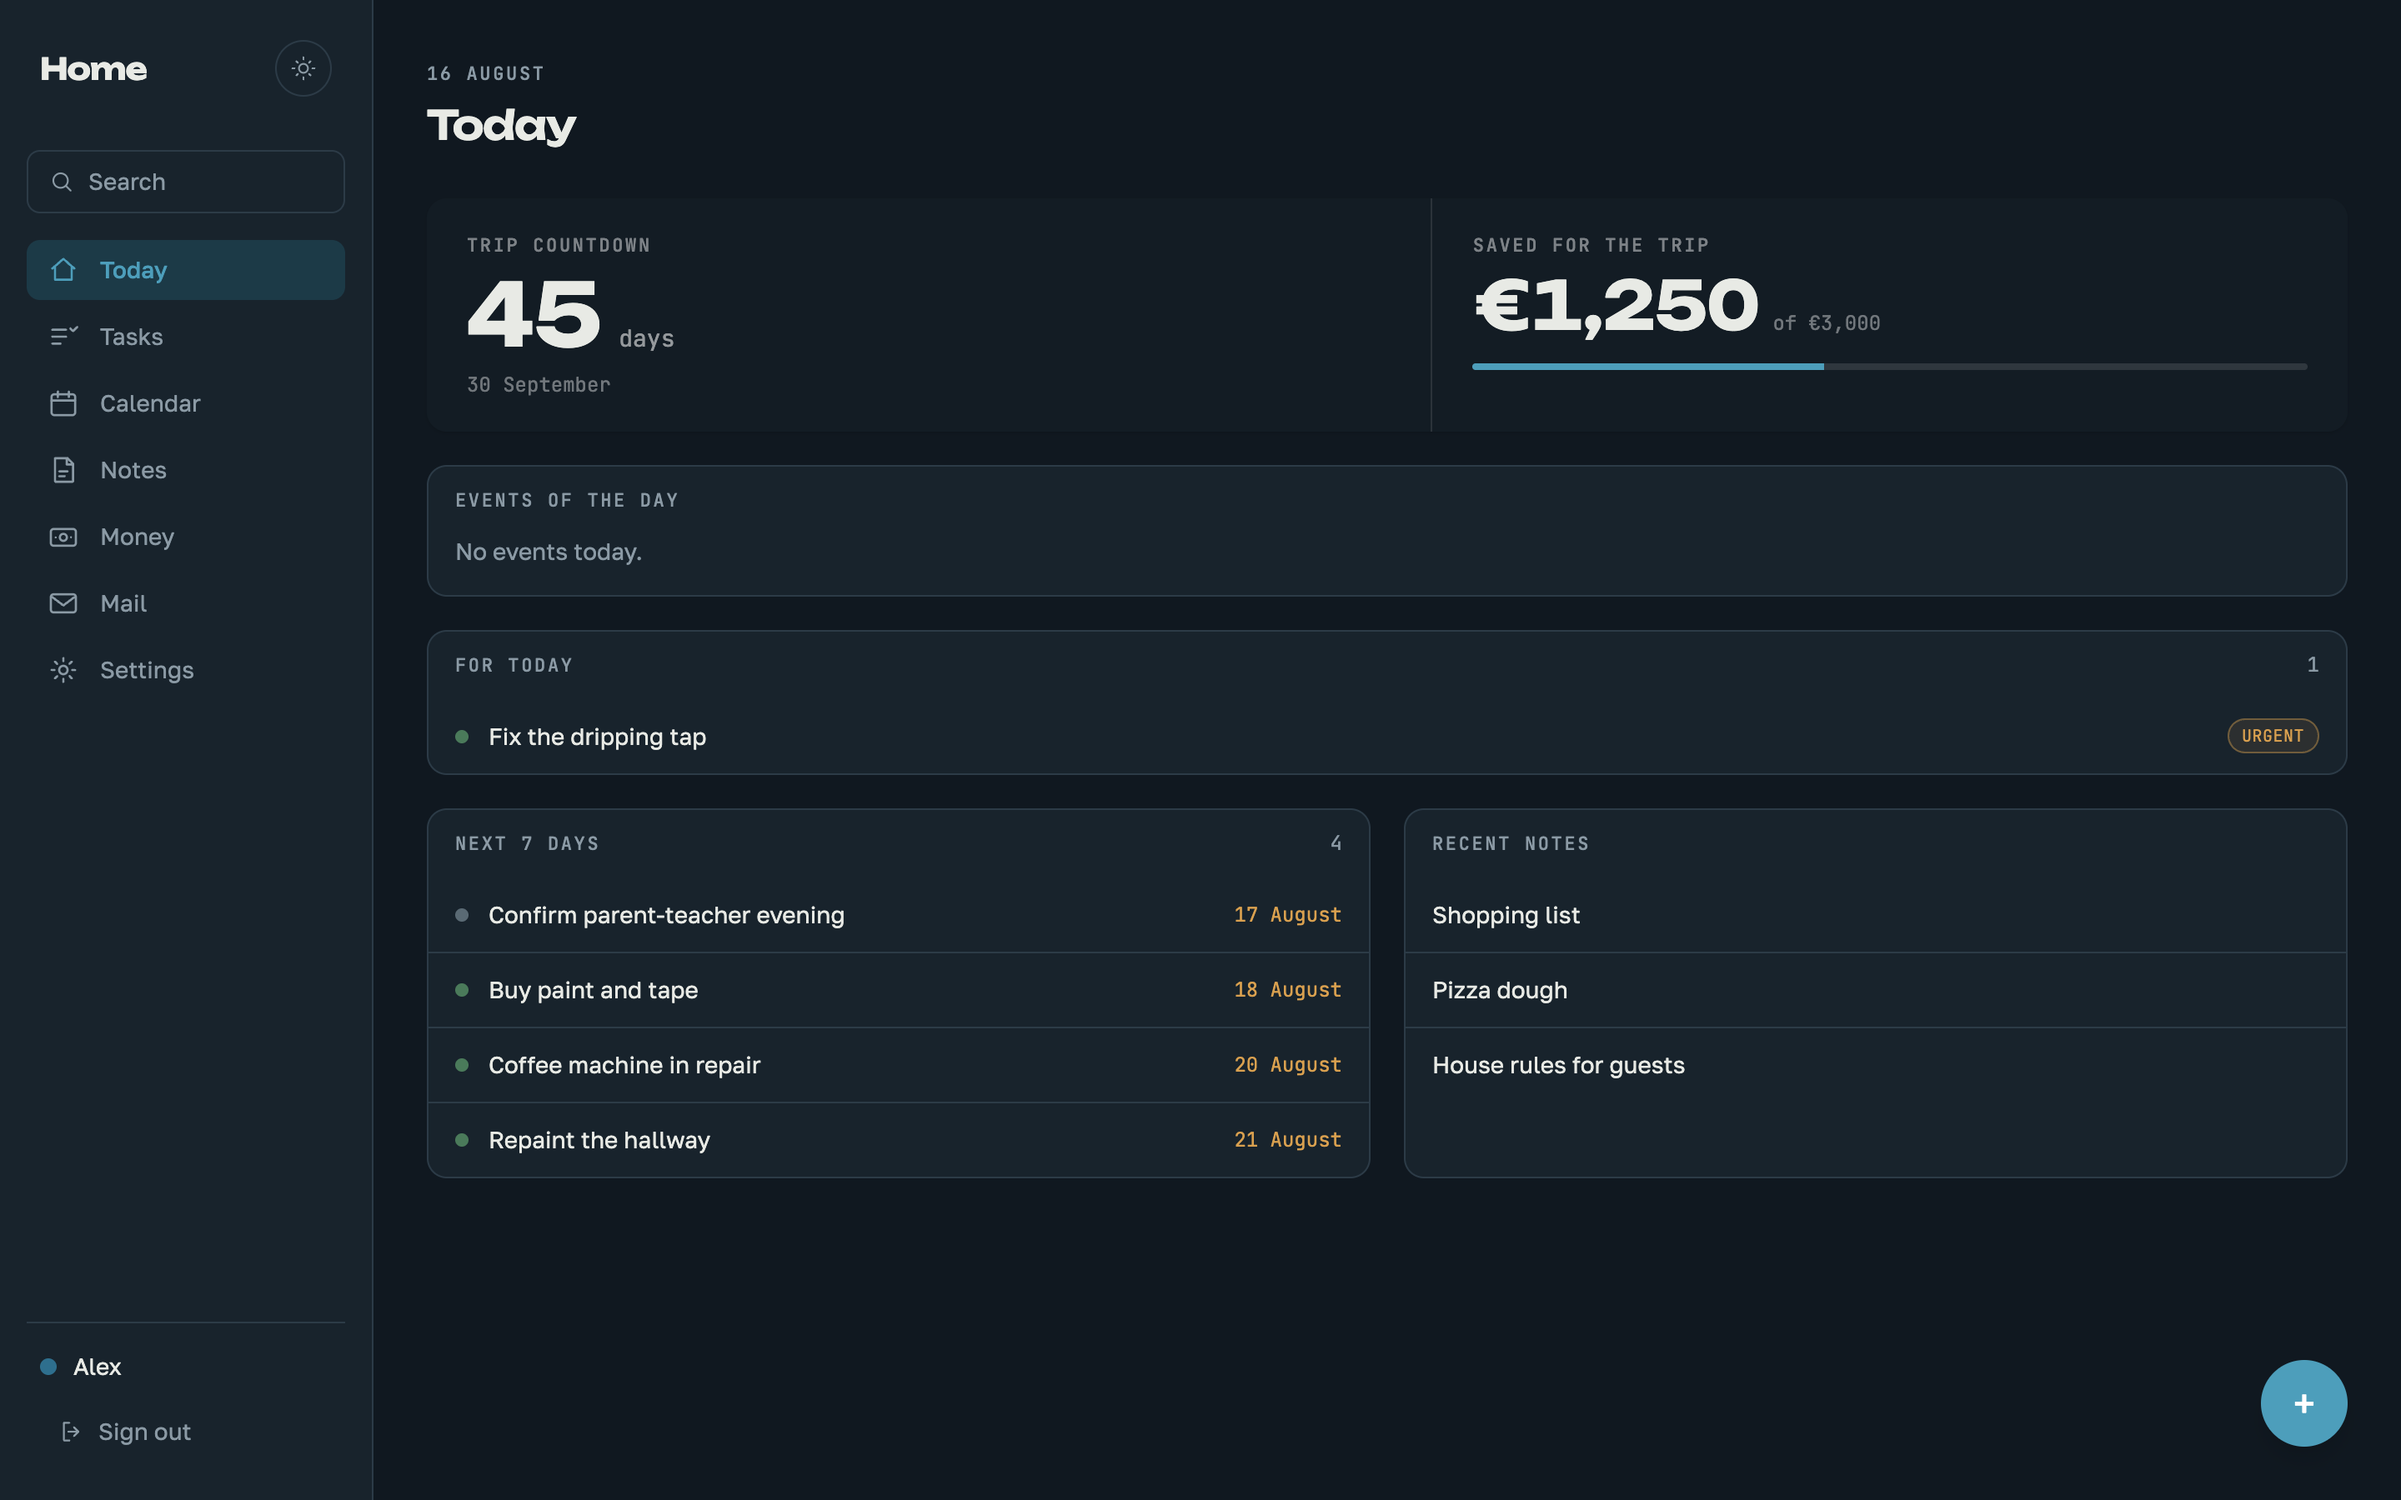
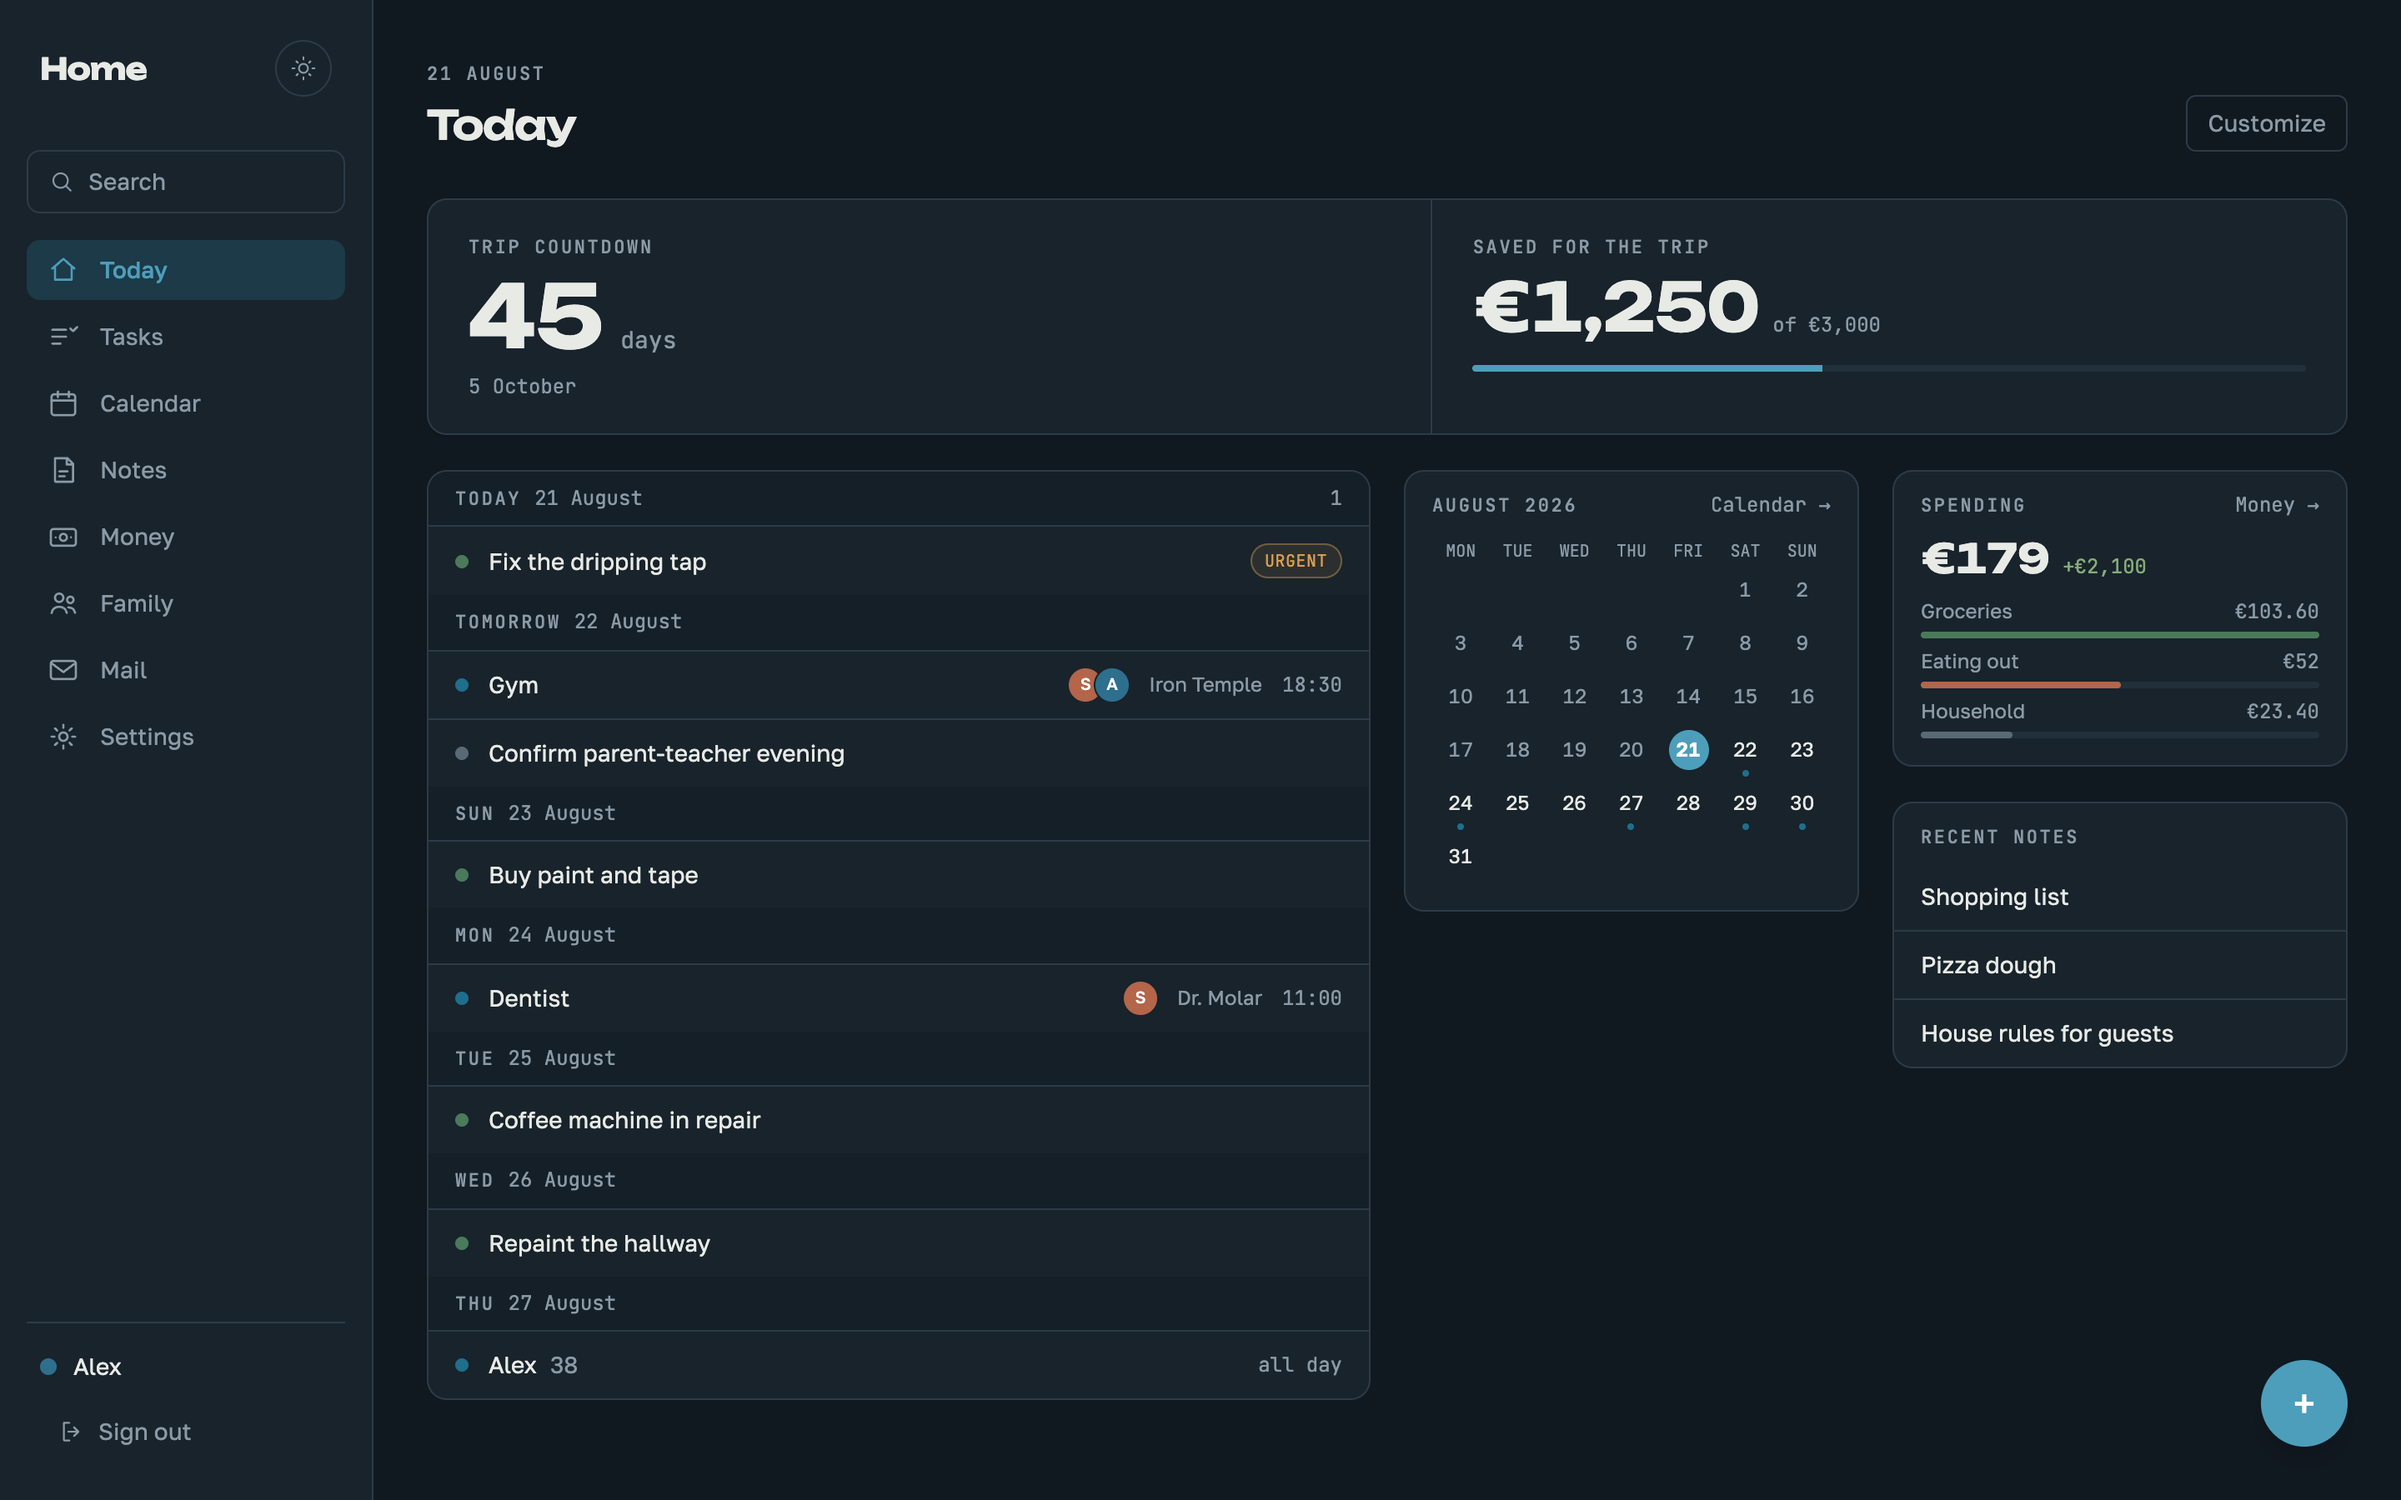
docs: reshoot the dashboard screenshots for the widget board
The README's lead image and the phone shot still showed the old fixed
panels (Events of the day / For today / Next 7 days), which no longer
exist. Both are retaken from a fresh demo sandbox on the deployed
image, plus a new one for customize mode — the strips with their drag
handle, width switch and hide button, which is the part prose explains
worst.

The Today board section grew the two desktop images and a note that
Reset exists; the README intro now says the home screen is arranged by
the household instead of calling it 'a dashboard'.

Also fixes an alphabetical slip from the redesign branch: 'Add widget'
sat before 'Add task' in the Russian dictionary. Order there is for
readers only — the dictionary is a lookup — but that is exactly why it
should stay sorted.

diff --git a/web/src/lib/i18n.ru.ts b/web/src/lib/i18n.ru.ts
@@ -108,8 +108,8 @@ export const ru: Record<string, string> = {
   'Add an event on {date}': 'Добавить событие на {date}',
   'Add color': 'Добавить цвет',
   'Add subtask': 'Добавить подзадачу',
-  'Add widget': 'Добавить виджет',
   'Add task': 'Добавить задачу',
+  'Add widget': 'Добавить виджет',
   'Administrator': 'Администратор',
   'Administrators only': 'Только администратор',
   'Agenda': 'Лента',

diff --git a/docs/features.md b/docs/features.md
@@ -217,16 +217,24 @@ currency with the three heaviest categories (subcategories roll up into
 their parent, same as the Money summary). A widget with nothing to say
 renders nothing.
 
-**Customize** turns the board editable: every widget gets a strip to
-drag it anywhere — the column you drop it in is where it stays, while
-vertically widgets fall up like gravity, so holes close themselves.
-The strip also switches the widget's width (a quarter, a half or the
-whole row) and hides it; hidden widgets come back through "Add widget".
-While dragging, a dashed box shows the exact landing spot.
+![The Today board: the week's agenda beside the month and the month's spending](screenshots/dashboard.png)
 
-The layout is a per-device setting, like the calendar view: the hallway
-kiosk wants a big month at a glance, the phone wants the agenda first,
-and a shared setting would make them fight.
+**Customize** turns the board editable: every widget grows a strip with
+a handle to drag it anywhere. The column you drop it in is where it
+stays; vertically widgets fall up like gravity, so a hole left by
+something moved away closes itself. The same strip switches the
+widget's width — a quarter of the row, a half or the whole thing — and
+hides the widget; anything off the board comes back through the "Add
+widget" tile below. While dragging, a dashed box shows the exact spot
+the widget will land in, because the board packs the hypothetical
+layout for real rather than guessing.
+
+![Customize mode: every widget with its drag handle, width switch and hide button](screenshots/dashboard-customize.png)
+
+The layout is a per-device setting, like the calendar view and the
+language: the hallway kiosk wants a big month at a glance, the phone
+wants the agenda first, and a shared setting would make them fight.
+"Reset" restores the default arrangement.
 
 ## Interface
 

diff --git a/README.md b/README.md
@@ -8,11 +8,11 @@
 
 A self-hosted family hub: tasks, notes, calendar and money in one place. Built for a household, not a corporation: one Docker container, one SQLite file, no external services required. Runs on a home machine over the local network or on a cheap VPS with a real domain.
 
-The core is complete and battle-tested by daily family use: accounts and sign-in (password and Google, with optional two-factor codes), projects and tasks with a kanban board, notes with attachments and wiki-links, a calendar with recurring events, a shared family mailbox that turns letters into tasks, full-text search, a dashboard, and a money section — accounts with balances, expenses, income, transfers, bank reconciliation, categories, budgets, recurring transactions, receipts. It installs to the home screen as an app and keeps working read-only when the Wi-Fi does not.
+The core is complete and battle-tested by daily family use: accounts and sign-in (password and Google, with optional two-factor codes), projects and tasks with a kanban board, notes with attachments and wiki-links, a calendar with recurring events, a shared family mailbox that turns letters into tasks, full-text search, a home screen you arrange yourself out of widgets, and a money section — accounts with balances, expenses, income, transfers, bank reconciliation, categories, budgets, recurring transactions, receipts. It installs to the home screen as an app and keeps working read-only when the Wi-Fi does not.
 
 ## A quick look
 
-![The dashboard: the day at a glance](docs/screenshots/dashboard.png)
+![The Today board: the week's agenda, the month, the money — widgets each household arranges itself](docs/screenshots/dashboard.png)
 
 <table>
   <tr>
